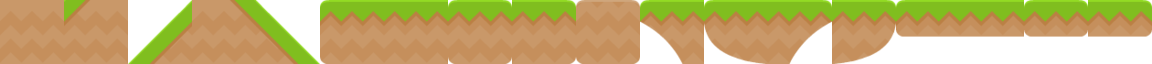
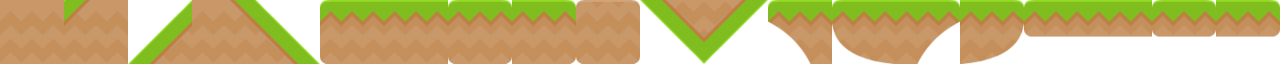
added upsidedown slopes

diff --git a/game-client/src/map.cpp b/game-client/src/map.cpp
@@ -191,7 +191,7 @@ Map::Map( std::string resource ) {
                 shapeFixDef.restitution = 0;
                 mapBody->CreateFixture(&shapeFixDef);
             // Half lower
-            } else if ( tiles[i].ID == offset+8 ) {
+            } else if ( tiles[i].ID == offset+7 ) {
                 b2PolygonShape shape;
                 b2Vec2 vertices[] = {
                     b2Vec2(x, y-0.5+0.5),
@@ -205,6 +205,36 @@ Map::Map( std::string resource ) {
                 shapeFixDef.density = 500;
                 shapeFixDef.restitution = 0;
                 mapBody->CreateFixture(&shapeFixDef);
+            // upsidedown left slope
+            } else if ( tiles[i].ID == offset+8 ) {
+                b2PolygonShape slopeRight;
+                b2Vec2 vertices[] = {
+                    b2Vec2(x+0.5+.5, y+0.5-.5),
+                    b2Vec2(x+0.5-.5, y+0.5+.5),
+                    b2Vec2(x+0.5-.5, y+0.5-.5)
+                };
+                slopeRight.Set(vertices, 3);
+                b2FixtureDef slopeRightFixureDef;
+                slopeRightFixureDef.shape = &slopeRight;
+                slopeRightFixureDef.density = 500;
+                slopeRightFixureDef.restitution = 0;
+                boxDef.position.Set(x+0.5, y+0.5);
+                mapBody->CreateFixture(&slopeRightFixureDef);
+            // upsidedown backwards left slope
+            } else if ( tiles[i].ID == offset+9 ) {
+                b2PolygonShape slopeRight;
+                b2Vec2 vertices[] = {
+                    b2Vec2(x+0.5-.5, y+0.5-.5),
+                    b2Vec2(x+0.5+.5, y+0.5-.5),
+                    b2Vec2(x+0.5+.5, y+0.5+.5)
+                };
+                slopeRight.Set(vertices, 3);
+                b2FixtureDef slopeRightFixureDef;
+                slopeRightFixureDef.shape = &slopeRight;
+                slopeRightFixureDef.density = 500;
+                slopeRightFixureDef.restitution = 0;
+                boxDef.position.Set(x+0.5, y+0.5);
+                mapBody->CreateFixture(&slopeRightFixureDef);
             } else {
                 std::cout << "PHYSICS TILE NOT FOUND: " << tiles[i].ID << "\n";
                 b2PolygonShape boxShape;
